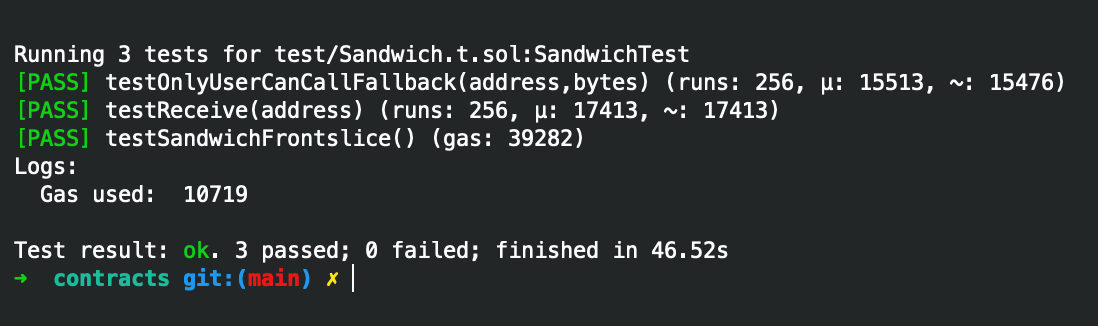
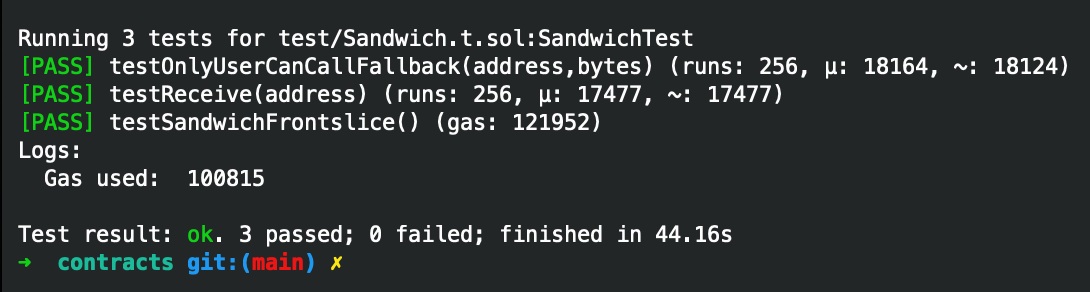
fix huff contracts

Changed region(s): [[0.0, 0.0925, 0.9982, 0.6473], [0.0, 0.7397, 0.6862, 0.9555]]

diff --git a/contracts/README.md b/contracts/README.md
@@ -16,7 +16,7 @@ A highly optimized [huff](https://github.com/huff-language) contract that can be
 
 ### Gas Usage
 
-As shown below, the subway-rs [Huff Contract](./src/Sandwich.huff) offers gas improvements of up to **9 times** the original subway's [most optimized contract](https://github.com/libevm/subway/blob/master/contracts/src/Sandwich.yulp).
+As shown below, the subway-rs [Huff Contract](./src/Sandwich.huff) offers a similar level of gas consumption as the original subway's [most optimized contract](https://github.com/libevm/subway/blob/master/contracts/src/Sandwich.yulp).
 
 ![](./assets/gas.png)
 
@@ -25,7 +25,7 @@ As shown below, the subway-rs [Huff Contract](./src/Sandwich.huff) offers gas im
 | Univ2 Router                      | 109809   | uniswap    |
 | Solidity Inline Assembly Contract | 92422    | subway     |
 | Yulp Contracts                    | 92234    | subway     |
-| Huff Contract                     | 10719    | subway-rs  |
+| Huff Contract                     | 100815   | subway-rs  |
 
 
 ### Usage
